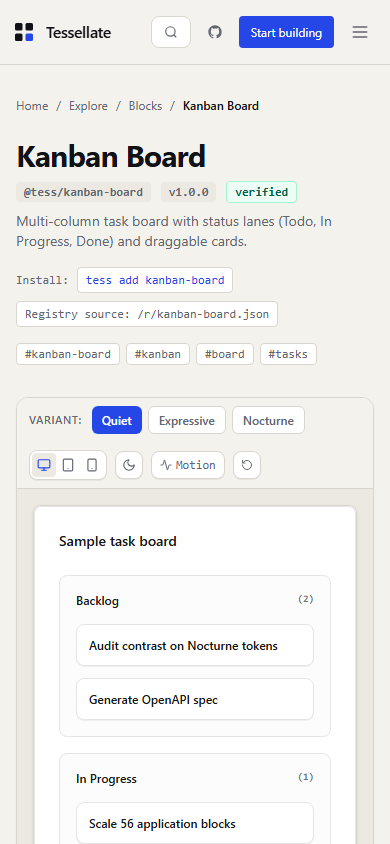
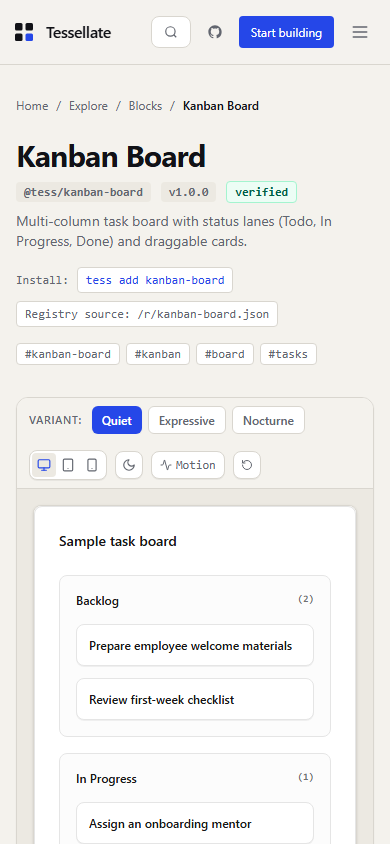
docs(audit): record kanban copy regressions

Changed region(s): [[0.2154, 0.7393, 0.7385, 0.7701], [0.2154, 0.955, 0.6462, 0.9858], [0.2154, 0.8009, 0.5846, 0.8626]]

diff --git a/audit/RUNTIME_AUDIT.md b/audit/RUNTIME_AUDIT.md
@@ -6,7 +6,7 @@ Machine-readable findings and their current status are in
 [`runtime-audit.json`](./runtime-audit.json). All fixes await verification in a
 published review version during the public-RC phase.
 
-**Current disposition:** 54 findings (6 High, 48 Medium). The six data-state fixes and three compact-width fixes have passed the rebuilt local browser matrix. All findings remain `fixed-awaiting-deployed-verification` until the public review Site is updated and re-audited. A fresh GitHub Linux CI run is still required for the cross-platform fixes.
+**Current disposition:** 56 findings (6 High, 50 Medium). The data-state, compact-width and Kanban copy fixes have passed local browser regressions. All findings remain `fixed-awaiting-deployed-verification` until the public review Site is updated and re-audited. A fresh GitHub Linux CI run is still required for the cross-platform fixes.
 
 The latest `pnpm test:e2e` run passed: 73 regular browser tests, 15 explicitly skipped tests, and all 5 Sites Worker tests. The catalogue report covers 324 resources and 972 variants with zero findings, failed requests or cancellations; the Gold report covers 40 resources / 120 variants with zero findings. Six Gold data-resource fixtures cover empty and large inputs, long text, keyboard interaction and notification updates. The three Linux-discovered compact overflows now pass the complete local matrix. See [`e2e-suite-final.json`](evidence/step-06/results/e2e-suite-final.json) and the individual browser reports alongside it.
 
@@ -572,3 +572,21 @@ with zero findings. That harness race is not counted as a product defect.
 - Affected code: `resources/typography/gradient-accent-text/index.tsx`, `tests/e2e/catalog-resource-render.spec.ts`.
 - Remediation: reduce compact-width padding and heading size, and allow long headline words to wrap.
 - Verification: the rebuilt 324-resource matrix passed at all seven widths with zero findings; status remains `fixed-awaiting-deployed-verification` pending Linux CI and public review re-audit.
+
+### AUD-055 — Empty Kanban state suggested unavailable add actions
+
+- Evidence: the before capture shows an empty status telling the user to add a column or task, while the preview exposes no add controls. The after capture states the board condition without promising an action.
+- Reproduction: open `/resources/kanban-board/` at 360x844, set `columns` to an empty array, and inspect the status and controls.
+- Root cause: the empty-state copy described add functionality that the standalone resource does not implement.
+- Affected code: `resources/blocks/kanban-board/index.tsx`, `tests/e2e/gold-resource-state-certification.spec.ts`.
+- Remediation: use a factual empty-state status and assert the empty preview does not promise absent actions.
+- Regression: the Sites Worker browser test first failed on the old status, then passed with the updated status and zero buttons in the empty state. Status remains `fixed-awaiting-deployed-verification` pending public review re-audit.
+
+### AUD-056 — Kanban sample tasks displayed fabricated catalogue counts
+
+- Evidence: the before capture contains “Scale 56 application blocks”, “72 Marketing sections verified” and “44 Primitives complete”. The after capture uses representative onboarding tasks without product totals.
+- Reproduction: open `/resources/kanban-board/` at 360x844 and inspect the default task cards.
+- Root cause: the default demo fixture embedded unsupported product counts in task text.
+- Affected code: `resources/blocks/kanban-board/index.tsx`, `tests/e2e/gold-resource-state-certification.spec.ts`.
+- Remediation: replace fabricated totals with representative onboarding tasks and assert those false claims are absent in the browser preview.
+- Regression: the Sites Worker browser test failed when the old metric was visible; the rebuilt 40-resource Gold matrix and updated six-resource state test pass. Status remains `fixed-awaiting-deployed-verification` pending public review re-audit.

diff --git a/quality/STEP_06_EVIDENCE.md b/quality/STEP_06_EVIDENCE.md
@@ -31,7 +31,7 @@ this step.
 
 The full catalogue and Gold browser reports reference 180 saved screenshots
 under `audit/evidence/step-06/after/` and record zero missing screenshot paths.
-The additional state and marketing-header reports reference 16 after-state screenshots; four baseline empty-state screenshots are preserved separately. All 196 unique screenshot paths referenced by the final local reports exist.
+The additional state and marketing-header reports reference 16 after-state screenshots; four earlier empty-state baselines plus two Kanban copy baselines are preserved separately. All 231 unique screenshot paths referenced by the runtime audit and final E2E reports exist.
 
 An earlier catalogue-matrix attempt recorded 39 iframe execution-context errors
 when the test switched variants before the prior preview finished loading. The
@@ -41,7 +41,7 @@ official run completed with zero such errors, failed requests or cancellations.
 
 ## Findings and remediation
 
-The local browser audit has **54 defects** recorded: 6 High and 48 Medium. The
+The local browser audit has **56 defects** recorded: 6 High and 50 Medium. The
 original 29 include enabled actions without behavior, 52 placeholder navigation
 links, compact-width overflows, an undisclosed menu state and an unsupported
 operational-status claim. The expanded resource matrix found a malformed Astro
@@ -57,8 +57,12 @@ found eight defects across the advanced table, timeline, KPI grid, notifications
 time-series chart and kanban board. These include blank empty states, stale
 notification inputs, missing action feedback and a false zero chart value. Each
 was reproduced before fixing and now passes the browser state regression.
+The Kanban review additionally found an empty-state message that promised
+unavailable add actions and fabricated resource totals in its sample tasks;
+both content defects have failing-before/passing-after browser assertions and
+before/after screenshots.
 
-All 54 fixes pass local resource-specific browser regressions and the full
+All 56 fixes pass local resource-specific browser regressions and the full
 catalogue/Gold render matrices. Their machine-readable status remains
 `fixed-awaiting-deployed-verification`; none is closed because the public review
 Site has not been updated and re-audited. Before and after screenshots are

diff --git a/audit/evidence/step-06/before/kanban-board-copy-regressions.md b/audit/evidence/step-06/before/kanban-board-copy-regressions.md
@@ -1,0 +1,17 @@
+# Kanban copy regressions (before fix)
+
+Both failures were reproduced through the Sites Worker browser preview at 360x844 using the Gold state certification test.
+
+1. Empty-state guidance
+   - Expected: `This board has no columns or tasks.`
+   - Actual: `No tasks yet. Add a column or task to get started.`
+   - The empty component exposes no button to add either item.
+   - Test assertion: `gold-resource-state-certification.spec.ts` empty board state.
+
+2. Unsupported sample metrics
+   - Expected: representative task text without invented catalogue totals.
+   - Actual: `Scale 56 application blocks`, `72 Marketing sections verified`, and `44 Primitives complete`.
+   - Test assertion failed because `Scale 56 application blocks` was visible in the default resource preview.
+   - Before capture: `audit/evidence/step-06/before/state-captures/kanban-board-fake-counts-360.png`.
+
+The original failing Playwright run's test output showed the received status text and the visible fabricated task. The test was run before the source copy fix.
